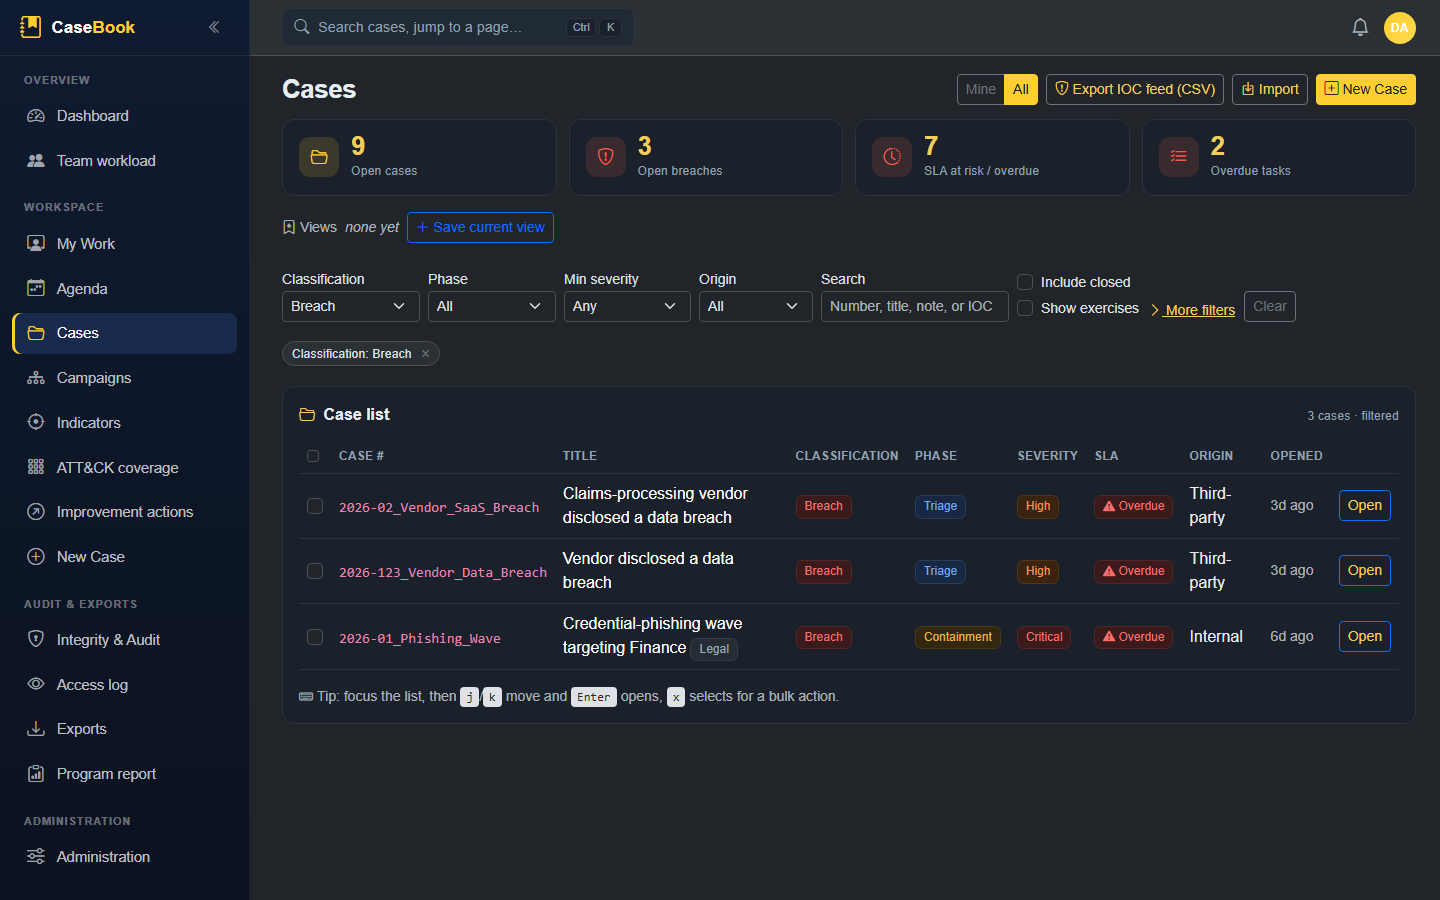
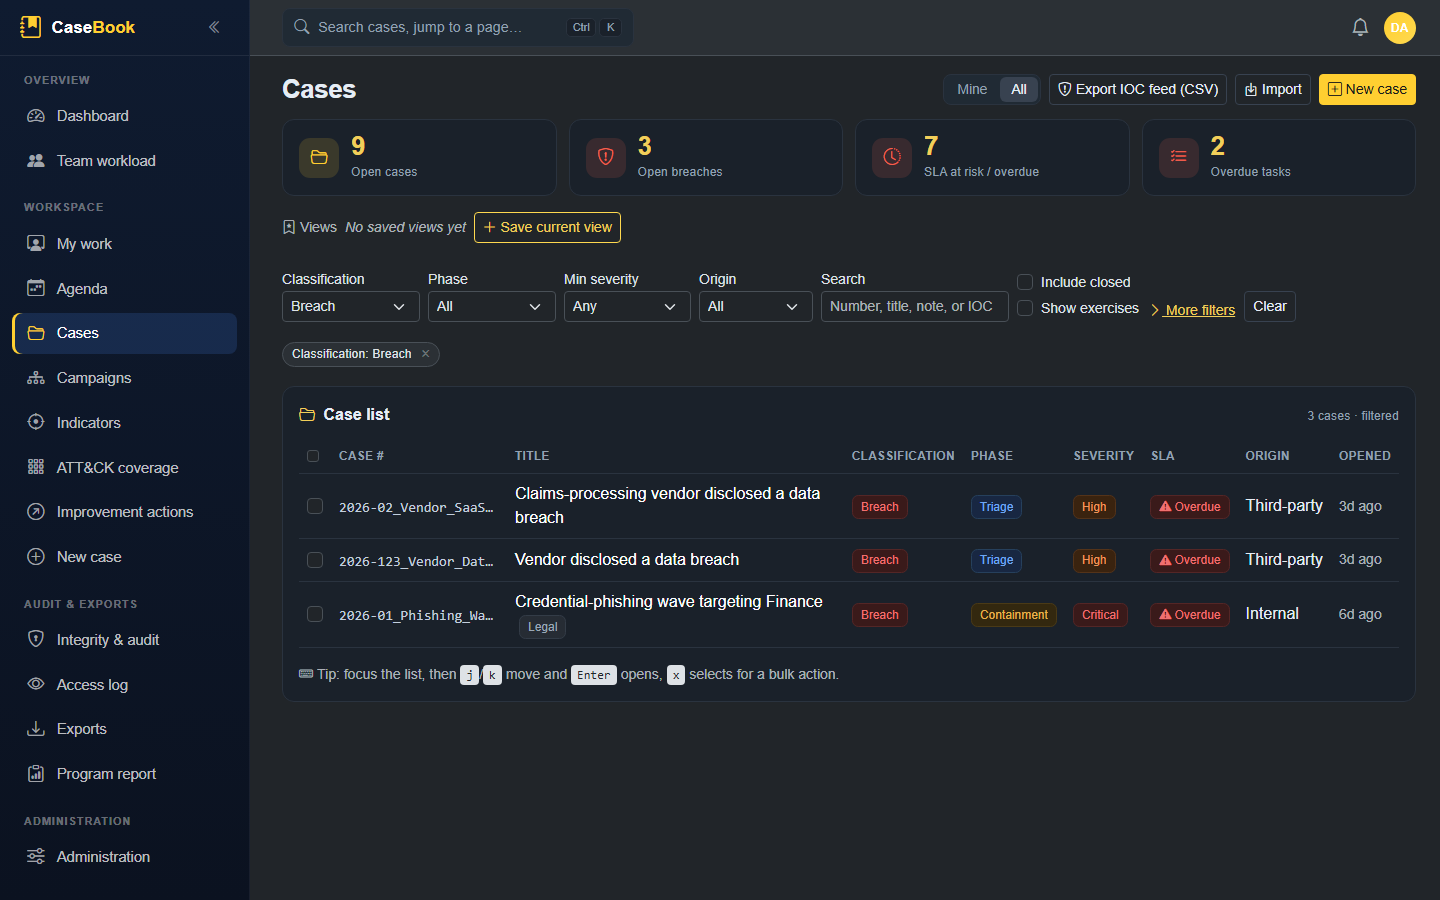
docs(readme): refresh screenshots after the polish pass (H-10)
Recaptured all 23 README shots against freshly seeded demo data so they show
the gold/neutral button hierarchy, segmented controls, whole-row case list and
the rewritten copy. Origin stays on one line in the case list.

diff --git a/src/IncidentManager.Web/wwwroot/app.css b/src/IncidentManager.Web/wwwroot/app.css
@@ -2040,6 +2040,7 @@ a.im-stat:hover { border-color: var(--im-accent-strong); transform: translateY(-
 .im-case-list > tbody > tr { position: relative; }
 .im-case-list .case-cell-title { min-width: 12rem; }
 .im-case-list .case-num { max-width: 11rem; }
+.im-case-list .case-cell-origin { white-space: nowrap; }
 /* Laptop widths: Origin (also a filter) is the column that gives way so the rest fits without clipping. */
 @media (min-width: 641px) and (max-width: 1399.98px) {
     .im-case-list .case-cell-origin { display: none; }
